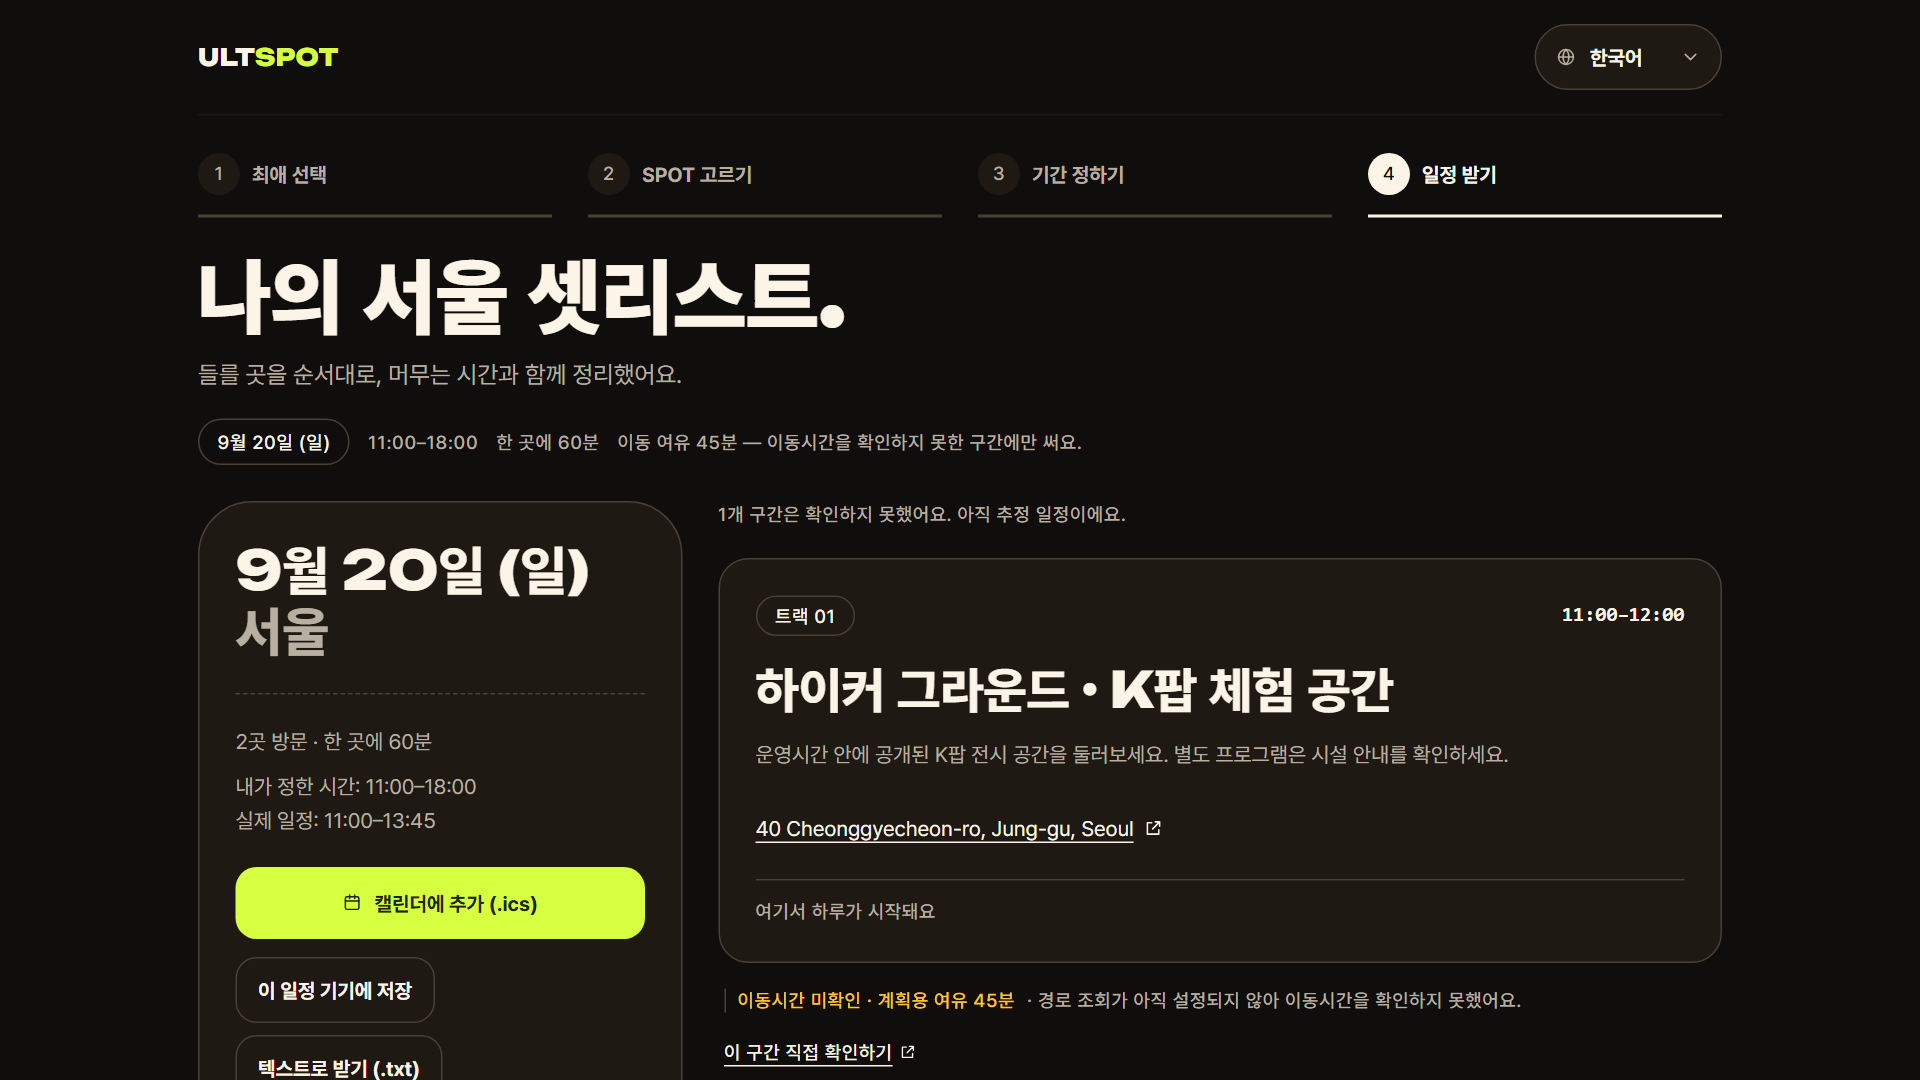
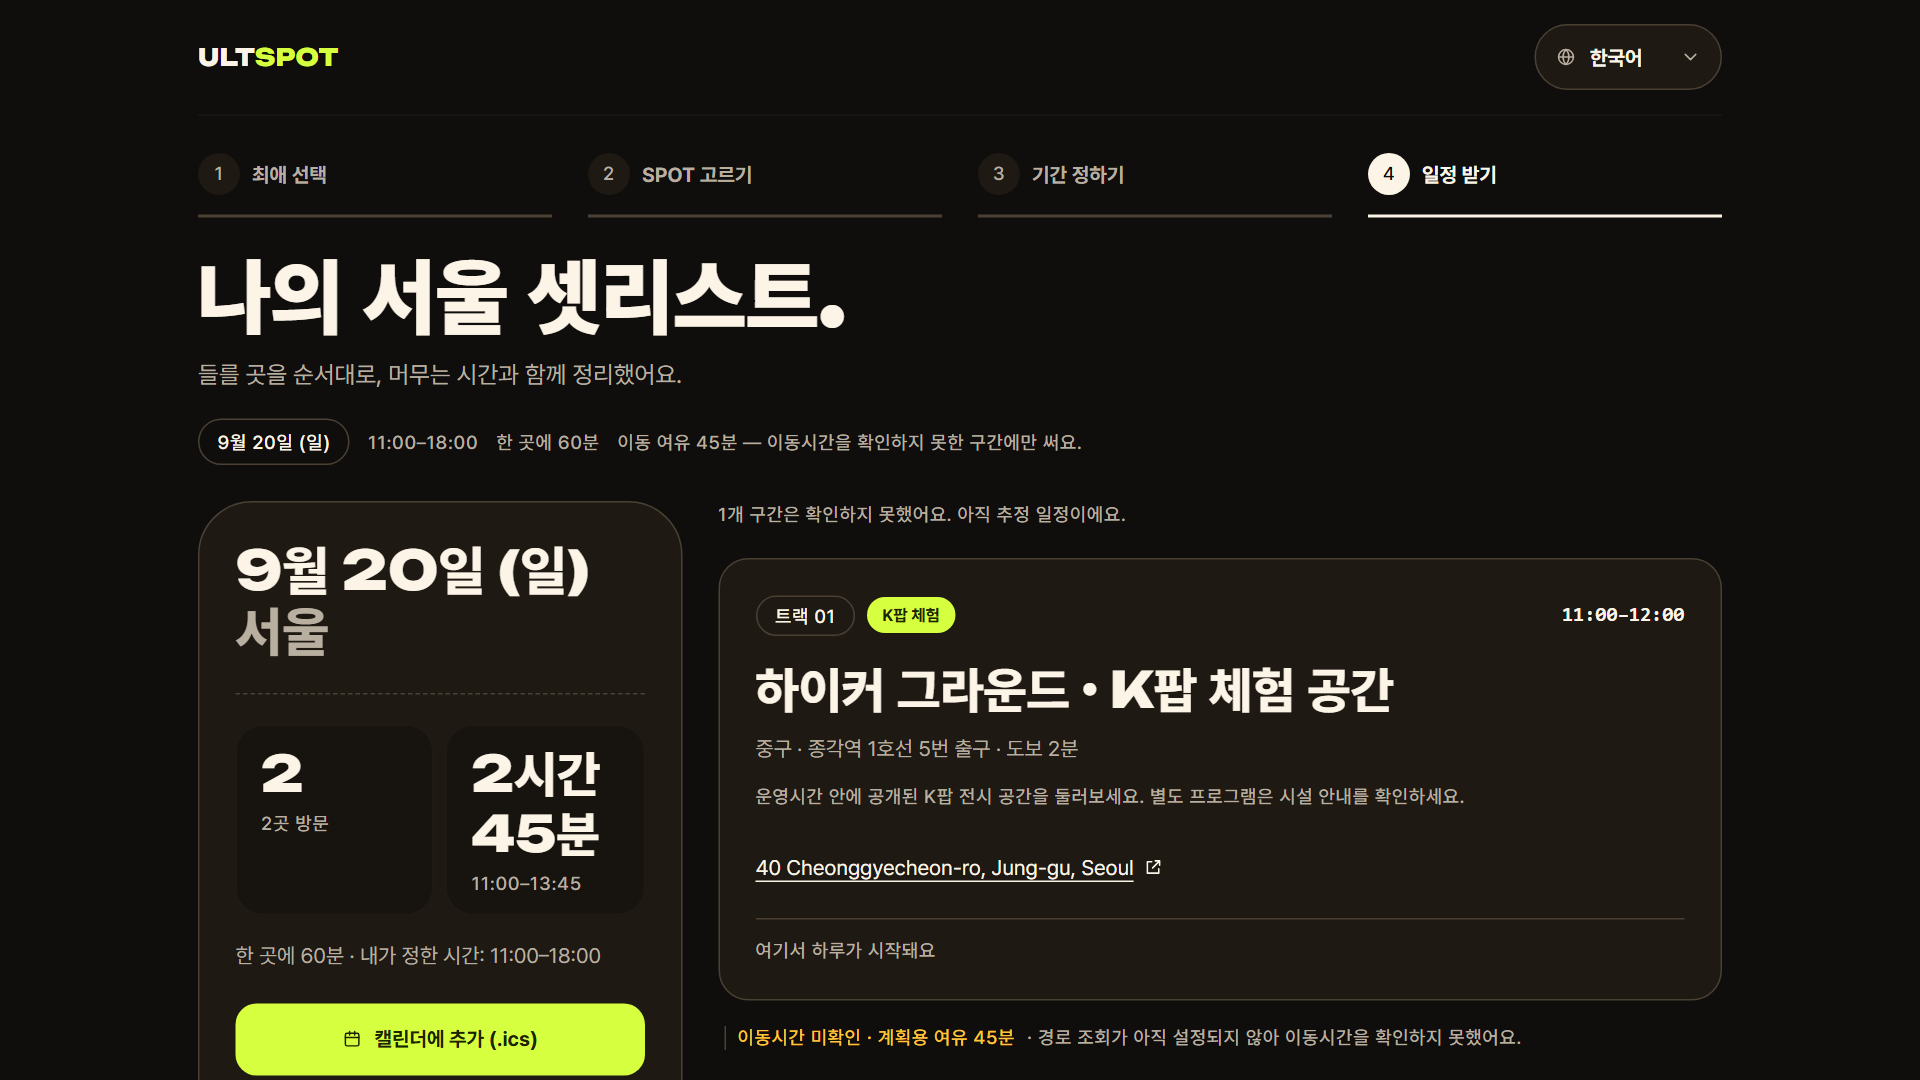
design(itinerary): 정류장에 분류 태그·지역·교통 한 줄과 요약 타일을 넣는다 (T-036)
기준 목업 6번 화면(Trip Planner)의 구조를 옮겼다: 번호 · 분류 태그 · 시간,
제목 아래 지역·가까운 역 한 줄, 왼쪽에 방문 수·소요 시간 타일. 거리는
검증된 값이 없어 타일에 넣지 않았다.

e2e가 "N visits ·"로 왼쪽 요약을 찾아서 그 문구 순서를 그대로 뒀다.
planner.spec 3건 중 2건 통과, 개인 행사 복원 1건은 미확인 — 마감 30분
전이라 main에 합치지 않고 브랜치에만 둔다. 제출 이미지 6장은
docs/submission/에 이 화면으로 다시 찍어 뒀다.

diff --git a/src/components/trip-planner.tsx b/src/components/trip-planner.tsx
@@ -3,7 +3,7 @@
 import Link from "next/link";
 import { useEffect, useRef, useState } from "react";
 import { Wordmark } from "@/components/brand";
-import { Button } from "@/components/ui";
+import { Badge, Button } from "@/components/ui";
 import { ArrowLeftIcon, ArrowRightIcon, CalendarIcon, CheckIcon, CloseIcon, ExternalIcon, FastIcon, SlowIcon } from "@/components/icons";
 import { LanguageToggle } from "@/components/language-toggle";
 import { SpotCard } from "@/components/spot-card";
@@ -539,11 +539,20 @@ export function TripPlanner({ today }: { today: string }) {
       <aside className="rounded-device border border-line-strong bg-surface p-6 lg:col-span-1">
         <p className="font-display text-title">{dayLabel}<br /><span className="text-text-muted">{t.pass.seoul}</span></p>
         <div className="my-5 border-t border-dashed border-line-strong" />
-        <p className="text-body-sm text-text-muted">{t.result.visits(result.stops.length)} · {t.result.stayEach(stay)}</p>
-        <p className="mt-2 text-body-sm text-text-muted">
-          {t.result.window(start, end)}
-          {lastStop && <><br />{t.result.ends(clock(result.stops[0].arrival), clock(lastStop.departure))}</>}
-        </p>
+        {/* 기준 목업의 요약 타일. 거리는 검증된 값이 없어 넣지 않는다 — 방문 수와 실제 소요 시간만. */}
+        {lastStop && <div className="grid grid-cols-2 gap-2">
+          <div className="rounded-lg border border-line bg-bg-soft px-4 py-3">
+            <p className="font-display text-heading">{result.stops.length}</p>
+            <p className="mt-1 text-caption text-text-muted">{t.result.visits(result.stops.length)}</p>
+          </div>
+          <div className="rounded-lg border border-line bg-bg-soft px-4 py-3">
+            <p className="font-display text-heading">{t.result.duration(lastStop.departure - result.stops[0].arrival)}</p>
+            <p className="mt-1 text-caption text-text-muted">{clock(result.stops[0].arrival)}–{clock(lastStop.departure)}</p>
+          </div>
+        </div>}
+        {/* 문구 순서는 그대로 둔다 — e2e가 "N visits ·"로 이 줄을 찾는다. */}
+        <p className="mt-4 text-body-sm text-text-muted">{t.result.visits(result.stops.length)} · {t.result.stayEach(stay)}</p>
+        <p className="mt-1 text-body-sm text-text-muted">{t.result.window(start, end)}</p>
         <Button className="mt-5" block disabled={!result.stops.length} onClick={addToCalendar}><CalendarIcon /> {t.result.calendar}</Button>
         <div className="mt-3 flex flex-wrap gap-2">
           <Button size="sm" variant="ghost" disabled={!!validation || busy} onClick={() => device("save")}>{t.result.saveDevice}</Button>
@@ -574,12 +583,23 @@ export function TripPlanner({ today }: { today: string }) {
         <ol className="space-y-4">{result.stops.map((stop, index) => <li key={stop.event.id}>
           <TravelLeg estimate={stop.travelEstimate} bufferMinutes={transfer} lookingUp={lookingUp} />
           <article className="rounded-xl border border-line-strong bg-surface p-5 sm:p-6">
-            <div className="flex items-center justify-between gap-3">
+            {/* 기준 목업의 정류장 행: 번호 · 분류 태그 · 시간. 분류는 우리가 만든 라벨이라 번역해도 된다. */}
+            <div className="flex flex-wrap items-center gap-2">
               <span className="rounded-full border border-line-strong px-3 py-1 text-caption">{t.result.track(index + 1)}</span>
-              <span className="font-mono text-label">{clock(stop.arrival)}–{clock(stop.departure)}</span>
+              {stop.event.provenance.mode !== "personal" && <Badge tone="category">{t.kinds[stop.event.kind] || stop.event.kind}</Badge>}
+              {required.includes(stop.event.id) && <Badge tone="accent">{t.musts.badge}</Badge>}
+              <span className="ml-auto font-mono text-label">{clock(stop.arrival)}–{clock(stop.departure)}</span>
             </div>
             <h2 className="mt-4 text-heading" lang={stopLang(stop.event, stop.event.title_ko)}>{eventCopy(stop.event, dataLocale).title}</h2>
-            <p className="mt-3 text-body-sm text-text-muted" lang={stopLang(stop.event, stop.event.do_ko)}>{eventCopy(stop.event, dataLocale).do}</p>
+            {/* 지역 · 가까운 역 한 줄. 교통 정보가 없으면 지역만 — 없는 값을 채우지 않는다. */}
+            <p className="mt-2 text-body-sm text-text-muted">
+              <span lang={stopLang(stop.event, stop.event.area_ko)}>{eventCopy(stop.event, dataLocale).area}</span>
+              {stop.event.transit && <> · {t.spots.transit(
+                locale === "ko" ? stop.event.transit.station_ko : stop.event.transit.station_en,
+                locale === "ko" ? stop.event.transit.line_ko : stop.event.transit.line_en,
+                stop.event.transit.exit, stop.event.transit.walk_minutes)}</>}
+            </p>
+            <p className="mt-3 text-caption text-text-muted" lang={stopLang(stop.event, stop.event.do_ko)}>{eventCopy(stop.event, dataLocale).do}</p>
             <a className="mt-4 inline-flex min-h-11 items-center gap-1.5 text-body-sm underline underline-offset-4"
               href={`https://map.naver.com/p/search/${encodeURIComponent(stop.event.address)}`} target="_blank" rel="noopener noreferrer">
               <span lang="en">{stop.event.address}</span> <ExternalIcon />
